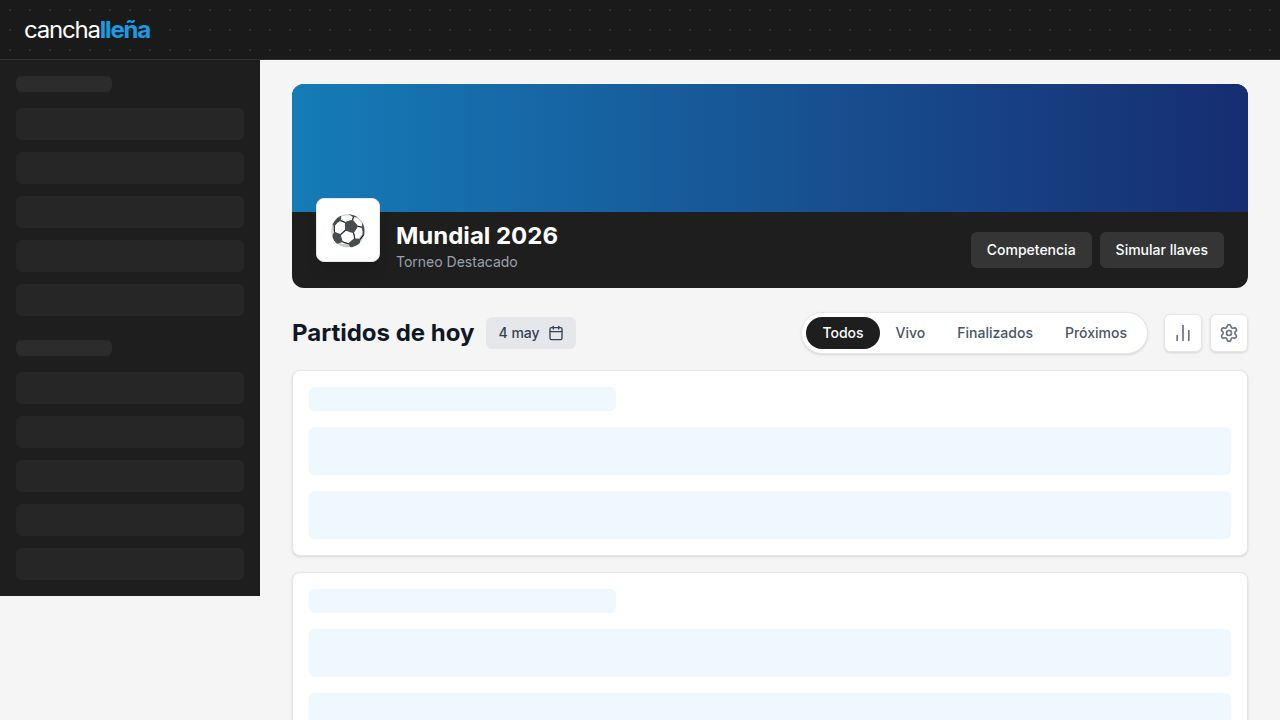
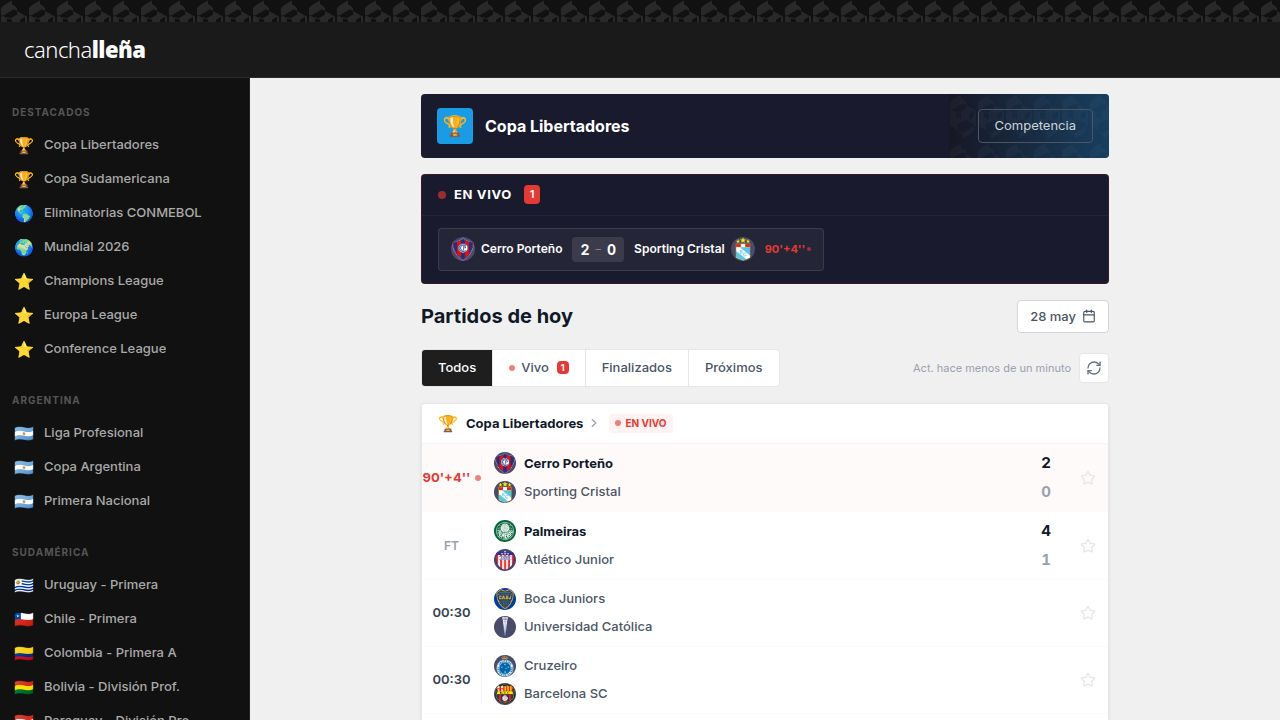
Add South American and other international competitions to the platform
Update API and frontend to include new tournament categories, specifically "Sudamérica," and adjust date/timezone handling for match display.

Replit-Commit-Author: Agent
Replit-Commit-Session-Id: dc6e0e66-3156-4985-b4ee-a914dc327504
Replit-Commit-Checkpoint-Type: full_checkpoint
Replit-Commit-Event-Id: ee7de6f3-f108-4701-9585-c2dae8b20ced
Replit-Commit-Screenshot-Url: https://storage.googleapis.com/screenshot-production-us-central1/417c9fe0-f4f0-4a77-ba41-8cccdc71d968/dc6e0e66-3156-4985-b4ee-a914dc327504/GHYc96C
Replit-Helium-Checkpoint-Created: true

diff --git a/artifacts/api-server/src/lib/espnService.ts b/artifacts/api-server/src/lib/espnService.ts
@@ -5,21 +5,38 @@ const ESPN_BASE = "https://site.api.espn.com/apis/site/v2/sports/soccer";
 const ESPN_STANDINGS = "https://site.api.espn.com/apis/v2/sports/soccer";
 
 // Leagues mapped to our tournament slugs
-export const ESPN_LEAGUES: Record<string, { slug: string; name: string; flag: string; category: "destacados" | "argentina" | "world" }> = {
-  "arg.1":                    { slug: "liga-profesional",     name: "Liga Profesional",      flag: "🇦🇷", category: "argentina" },
-  "arg.copa":                 { slug: "copa-argentina",       name: "Copa Argentina",         flag: "🇦🇷", category: "argentina" },
-  "arg.2":                    { slug: "primera-nacional",     name: "Primera Nacional",       flag: "🇦🇷", category: "argentina" },
+export const ESPN_LEAGUES: Record<string, { slug: string; name: string; flag: string; category: "destacados" | "argentina" | "sudamerica" | "world" }> = {
+  // Destacados
   "conmebol.libertadores":    { slug: "copa-libertadores",    name: "Copa Libertadores",      flag: "🏆", category: "destacados" },
   "conmebol.sudamericana":    { slug: "copa-sudamericana",    name: "Copa Sudamericana",      flag: "🏆", category: "destacados" },
+  "fifa.worldq.conmebol":     { slug: "eliminatorias",        name: "Eliminatorias CONMEBOL", flag: "🌎", category: "destacados" },
+  "fifa.world":               { slug: "mundial-2026",         name: "Mundial 2026",           flag: "🌍", category: "destacados" },
   "uefa.champions":           { slug: "champions-league",     name: "Champions League",       flag: "⭐", category: "destacados" },
   "uefa.europa":              { slug: "europa-league",        name: "Europa League",          flag: "⭐", category: "destacados" },
+  "uefa.conference":          { slug: "conference-league",    name: "Conference League",      flag: "⭐", category: "destacados" },
+  // Argentina
+  "arg.1":                    { slug: "liga-profesional",     name: "Liga Profesional",       flag: "🇦🇷", category: "argentina" },
+  "arg.copa":                 { slug: "copa-argentina",       name: "Copa Argentina",         flag: "🇦🇷", category: "argentina" },
+  "arg.2":                    { slug: "primera-nacional",     name: "Primera Nacional",       flag: "🇦🇷", category: "argentina" },
+  // Sudamérica
+  "uru.1":                    { slug: "uruguay-primera",      name: "Uruguay - Primera",      flag: "🇺🇾", category: "sudamerica" },
+  "chi.1":                    { slug: "chile-primera",        name: "Chile - Primera",        flag: "🇨🇱", category: "sudamerica" },
+  "col.1":                    { slug: "colombia-primera-a",   name: "Colombia - Primera A",   flag: "🇨🇴", category: "sudamerica" },
+  "bol.1":                    { slug: "bolivia-primera",      name: "Bolivia - División Prof.", flag: "🇧🇴", category: "sudamerica" },
+  "par.1":                    { slug: "paraguay-primera",     name: "Paraguay - División Pro.", flag: "🇵🇾", category: "sudamerica" },
+  "ecu.1":                    { slug: "ecuador-serie-a",      name: "Ecuador - Serie A",      flag: "🇪🇨", category: "sudamerica" },
+  "per.1":                    { slug: "peru-liga-1",          name: "Perú - Liga 1",          flag: "🇵🇪", category: "sudamerica" },
+  "ven.1":                    { slug: "venezuela-primera",    name: "Venezuela - Primera",    flag: "🇻🇪", category: "sudamerica" },
+  "mex.1":                    { slug: "liga-mx",              name: "Liga MX",                flag: "🇲🇽", category: "sudamerica" },
+  "usa.1":                    { slug: "mls",                  name: "MLS",                    flag: "🇺🇸", category: "sudamerica" },
+  // Europa / Mundo
   "eng.1":                    { slug: "premier-league",       name: "Premier League",         flag: "🏴", category: "world" },
   "esp.1":                    { slug: "la-liga",              name: "La Liga",                flag: "🇪🇸", category: "world" },
   "ger.1":                    { slug: "bundesliga",           name: "Bundesliga",             flag: "🇩🇪", category: "world" },
   "ita.1":                    { slug: "serie-a",              name: "Serie A",                flag: "🇮🇹", category: "world" },
   "fra.1":                    { slug: "ligue-1",              name: "Ligue 1",                flag: "🇫🇷", category: "world" },
-  "fifa.worldq.conmebol":     { slug: "eliminatorias",        name: "Eliminatorias CONMEBOL", flag: "🌎", category: "destacados" },
-  "fifa.world":               { slug: "mundial-2026",         name: "Mundial 2026",           flag: "🌍", category: "destacados" },
+  "ned.1":                    { slug: "eredivisie",           name: "Eredivisie",             flag: "🇳🇱", category: "world" },
+  "por.1":                    { slug: "primeira-liga",        name: "Primeira Liga",          flag: "🇵🇹", category: "world" },
 };
 
 // Slug → leagueId lookup
@@ -68,6 +85,31 @@ export type EspnEvent = {
   assistName: string | null;
   text: string;
 };
+
+// ---- Argentina timezone helpers (ART = UTC-3, no DST) ----
+
+/** Convert a UTC ISO string to Argentine date string (YYYY-MM-DD) */
+function toArgDate(utcIso: string): string {
+  const ms = new Date(utcIso).getTime() - 3 * 60 * 60 * 1000;
+  return new Date(ms).toISOString().split("T")[0]!;
+}
+
+/** Today's date in Argentine timezone (YYYY-MM-DD) */
+function argToday(): string {
+  return toArgDate(new Date().toISOString());
+}
+
+/**
+ * Given an Argentine date (YYYY-MM-DD), return the two UTC dates (YYYYMMDD)
+ * that cover it — since ART = UTC-3, a full ART day spans two UTC calendar days.
+ */
+function artDateToUtcDates(artDate: string): [string, string] {
+  const d1 = artDate.replace(/-/g, "");
+  const next = new Date(artDate + "T12:00:00Z");
+  next.setUTCDate(next.getUTCDate() + 1);
+  const d2 = next.toISOString().split("T")[0]!.replace(/-/g, "");
+  return [d1, d2];
+}
 
 // ---- In-memory cache ----
 
@@ -148,14 +190,20 @@ function parseEvent(ev: Record<string, unknown>): EspnEvent | null {
 
 // ---- Public API ----
 
-/** Fetch all matches for a league from ESPN scoreboard */
-export async function fetchLeagueMatches(leagueId: string): Promise<EspnMatch[]> {
-  const cacheKey = `matches:${leagueId}`;
+/** Fetch all matches for a league from ESPN scoreboard.
+ *  @param utcDateStr — optional YYYYMMDD string; if provided fetches ?dates=YYYYMMDD
+ */
+export async function fetchLeagueMatches(leagueId: string, utcDateStr?: string): Promise<EspnMatch[]> {
+  const cacheKey = `matches:${leagueId}:${utcDateStr ?? "current"}`;
   const cached = getCache<EspnMatch[]>(cacheKey);
   if (cached) return cached;
 
+  const url = utcDateStr
+    ? `${ESPN_BASE}/${leagueId}/scoreboard?dates=${utcDateStr}`
+    : `${ESPN_BASE}/${leagueId}/scoreboard`;
+
   try {
-    const data = await espnFetch(`${ESPN_BASE}/${leagueId}/scoreboard`) as Record<string, unknown>;
+    const data = await espnFetch(url) as Record<string, unknown>;
     const leagueInfo = ESPN_LEAGUES[leagueId];
     if (!leagueInfo) return [];
 
@@ -213,30 +261,51 @@ export async function fetchLeagueMatches(leagueId: string): Promise<EspnMatch[]>
   }
 }
 
-/** Fetch today's matches across all leagues */
-export async function fetchTodayMatches(): Promise<EspnMatch[]> {
-  const cacheKey = "today:all";
+/**
+ * Fetch all matches across all leagues for a given Argentine date (YYYY-MM-DD).
+ * Queries ESPN with both UTC dates that cover that ART day and deduplicates.
+ */
+export async function fetchMatchesForDate(artDate: string): Promise<EspnMatch[]> {
+  const cacheKey = `day:${artDate}`;
   const cached = getCache<EspnMatch[]>(cacheKey);
   if (cached) return cached;
 
+  const [utcD1, utcD2] = artDateToUtcDates(artDate);
+  const leagueIds = Object.keys(ESPN_LEAGUES);
+
+  // Fetch each league for both UTC dates in parallel
   const results = await Promise.allSettled(
-    Object.keys(ESPN_LEAGUES).map((lid) => fetchLeagueMatches(lid))
+    leagueIds.flatMap((lid) => [
+      fetchLeagueMatches(lid, utcD1),
+      fetchLeagueMatches(lid, utcD2),
+    ])
   );
 
-  const today = new Date().toISOString().split("T")[0]!;
+  const seen = new Set<string>();
   const all: EspnMatch[] = [];
   for (const r of results) {
     if (r.status === "fulfilled") {
-      const todayMatches = r.value.filter((m) => m.kickoffTime.startsWith(today));
-      all.push(...todayMatches);
+      for (const m of r.value) {
+        if (!seen.has(m.id) && toArgDate(m.kickoffTime) === artDate) {
+          seen.add(m.id);
+          all.push(m);
+        }
+      }
     }
   }
 
   all.sort((a, b) => new Date(a.kickoffTime).getTime() - new Date(b.kickoffTime).getTime());
 
+  const isToday = artDate === argToday();
   const hasLive = all.some((m) => m.status === "live");
-  setCache(cacheKey, all, hasLive ? 15_000 : 30_000);
+  const ttl = isToday ? (hasLive ? 15_000 : 30_000) : 5 * 60_000;
+  setCache(cacheKey, all, ttl);
   return all;
+}
+
+/** Fetch today's matches (in Argentine timezone) across all leagues */
+export async function fetchTodayMatches(): Promise<EspnMatch[]> {
+  return fetchMatchesForDate(argToday());
 }
 
 /** Fetch match events (goals, cards) from ESPN summary */

diff --git a/artifacts/api-server/src/routes/matches.ts b/artifacts/api-server/src/routes/matches.ts
@@ -1,6 +1,7 @@
 import { Router } from "express";
 import {
   fetchTodayMatches,
+  fetchMatchesForDate,
   fetchLeagueMatches,
   fetchMatchEvents,
   fetchMatchStats,
@@ -105,30 +106,23 @@ router.get("/live", async (req, res) => {
   }
 });
 
-// GET /matches  (with optional ?status= and ?date= filters)
+// GET /matches  (with optional ?status= and ?date= filters; date is YYYY-MM-DD in ART timezone)
 router.get("/", async (req, res) => {
   try {
     const { status, date } = req.query as { status?: string; date?: string };
 
-    const all = await fetchTodayMatches();
-    let matches = all;
-
-    if (date) {
-      matches = matches.filter((m) => m.kickoffTime.startsWith(date));
-    }
-    if (status) {
-      matches = matches.filter((m) => m.status === status);
-    }
+    // If a specific date is requested, fetch for that ART date; otherwise use today
+    const all = date ? await fetchMatchesForDate(date) : await fetchTodayMatches();
+    const matches = status ? all.filter((m) => m.status === status) : all;
 
     const groups = groupByTournament(matches);
-    const liveCount = matches.filter((m) => m.status === "live").length;
 
     res.json({
       groups,
       totalMatches: matches.length,
-      liveCount,
-      finishedCount: matches.filter((m) => m.status === "finished").length,
-      upcomingCount: matches.filter((m) => m.status === "upcoming").length,
+      liveCount: all.filter((m) => m.status === "live").length,
+      finishedCount: all.filter((m) => m.status === "finished").length,
+      upcomingCount: all.filter((m) => m.status === "upcoming").length,
     });
   } catch (err) {
     req.log.error({ err }, "Failed to list matches");

diff --git a/artifacts/cancha-llena/src/components/Sidebar.tsx b/artifacts/cancha-llena/src/components/Sidebar.tsx
@@ -128,6 +128,11 @@ export default function Sidebar() {
             {tournamentsData?.argentina?.map((t) => <TournamentItem key={t.id} tournament={t} />)}
           </ul>
 
+          <SectionLabel label="Sudamérica" />
+          <ul>
+            {tournamentsData?.sudamerica?.map((t) => <TournamentItem key={t.id} tournament={t} />)}
+          </ul>
+
           <SectionLabel label="Resto del Mundo" />
           <ul className="pb-6">
             {tournamentsData?.world?.map((t) => <TournamentItem key={t.id} tournament={t} />)}

diff --git a/artifacts/api-server/src/routes/tournaments.ts b/artifacts/api-server/src/routes/tournaments.ts
@@ -53,16 +53,18 @@ function leagueToTournament(leagueId: string) {
 router.get("/", async (_req, res) => {
   const destacados = [];
   const argentina = [];
+  const sudamerica = [];
   const world = [];
 
   for (const [id, info] of Object.entries(ESPN_LEAGUES)) {
     const t = leagueToTournament(id)!;
     if (info.category === "destacados") destacados.push(t);
     else if (info.category === "argentina") argentina.push(t);
+    else if (info.category === "sudamerica") sudamerica.push(t);
     else world.push(t);
   }
 
-  res.json({ destacados, argentina, world });
+  res.json({ destacados, argentina, sudamerica, world });
 });
 
 // GET /tournaments/by-slug/:slug